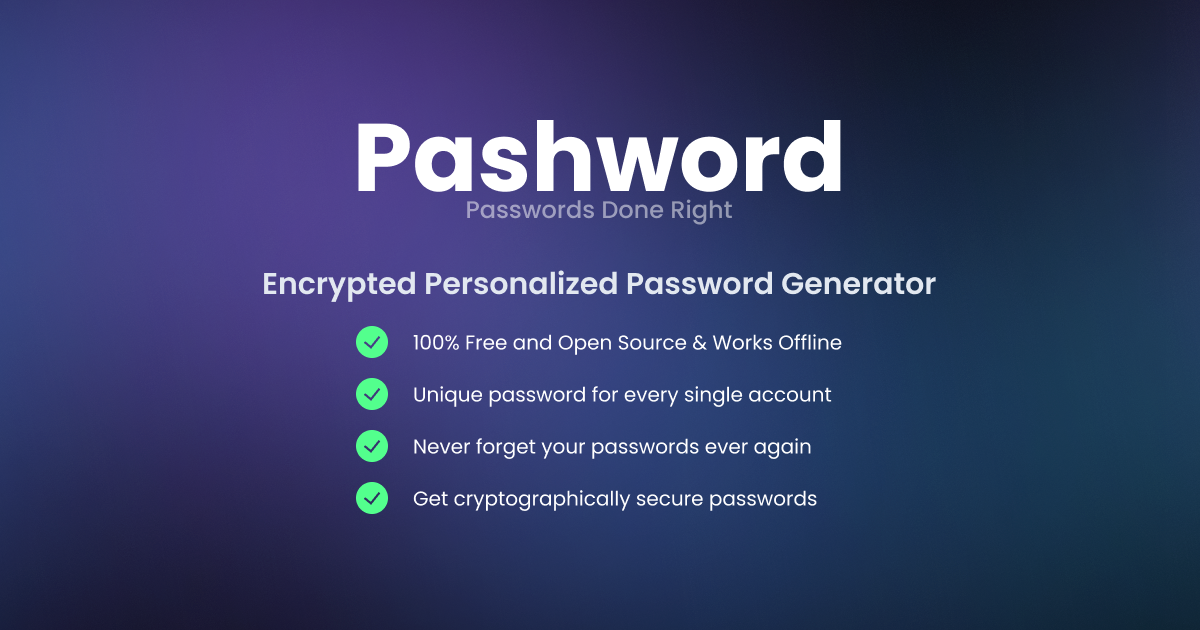
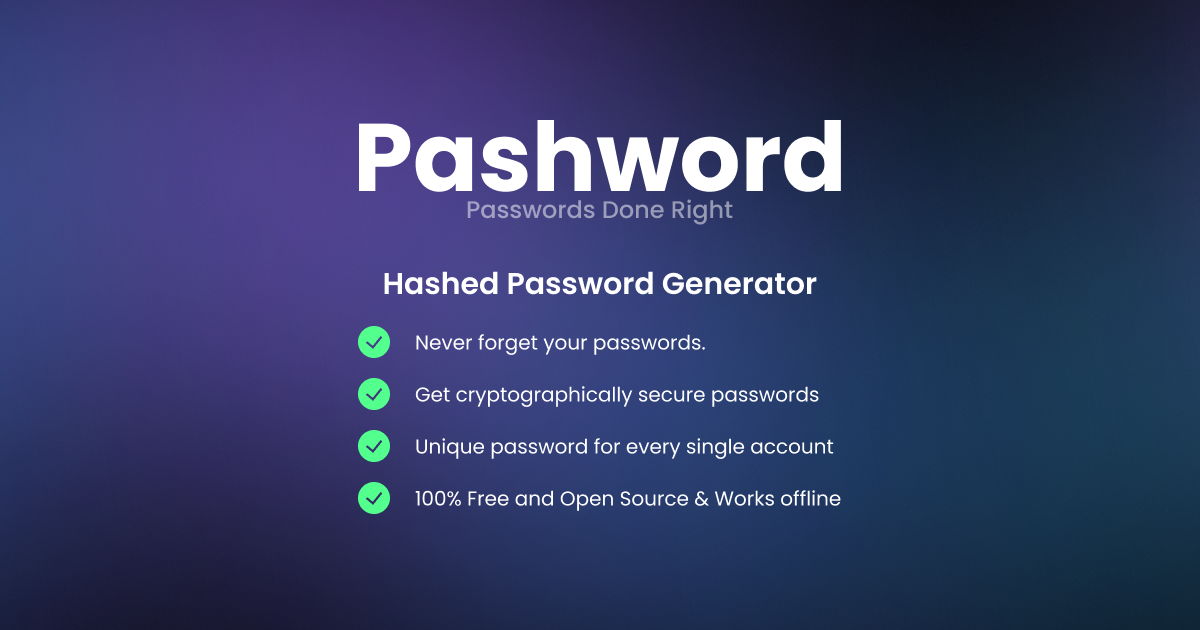
Updated metadata

diff --git a/pages/_app.tsx b/pages/_app.tsx
@@ -16,7 +16,7 @@ function MyApp({ Component, pageProps }: AppProps) {
         />
         <meta
           name="description"
-          content="Encrypted Personalized Password Generator"
+          content="Pashword - Hashed Password Generator. Free and Open Source WebApp to generate passwords you don't need to remember. Pashword generates unique strong passwords for all your accounts using just a single key."
         />
         <meta name="format-detection" content="telephone=no" />
         <meta name="mobile-web-app-capable" content="yes" />
@@ -38,7 +38,7 @@ function MyApp({ Component, pageProps }: AppProps) {
         <meta name="twitter:title" content="Pashword - Passwords done right" />
         <meta
           name="twitter:description"
-          content="Encrypted Personalized Password Generator"
+          content="Pashword - Hashed Password Generator. Free and Open Source WebApp to generate passwords you don't need to remember. Pashword generates unique strong passwords for all your accounts using just a single key."
         />
         <meta
           name="twitter:image"
@@ -49,7 +49,7 @@ function MyApp({ Component, pageProps }: AppProps) {
         <meta property="og:title" content="Pashword - Passwords done right" />
         <meta
           property="og:description"
-          content="Encrypted Personalized Password Generator. Pashword is a cryptographically secure password generator that generates a unique password for all your accounts."
+          content="Pashword - Hashed Password Generator. Free and Open Source WebApp to generate passwords you don't need to remember. Pashword generates unique strong passwords for all your accounts using just a single key."
         />
         <meta property="og:site_name" content="Pashword" />
         <meta property="og:url" content="https://pashword.app" />
